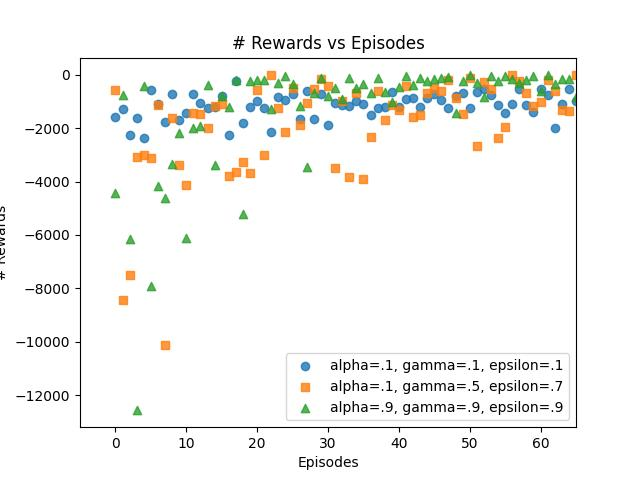
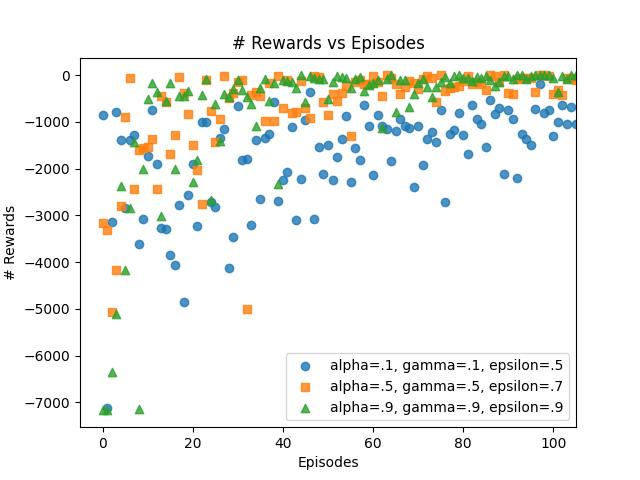
Difference in output

diff --git a/Q_learning/part1/TaxiDriverGym.py b/Q_learning/part1/TaxiDriverGym.py
@@ -9,22 +9,58 @@ import matplotlib.pyplot as plt
 env = gym.make("Taxi-v3", render_mode='ansi').env
 
 def specific_plot(r1, r2, r3):
-    plt.scatter(range(len(r1)),r1,label="alpha=.1, gamma=.1, epsilon=.1", alpha=0.8)
-    plt.scatter(range(len(r2)),r2,label="alpha=.1, gamma=.5, epsilon=.7", marker='s', alpha=0.8)
+    plt.scatter(range(len(r1)),r1,label="alpha=.1, gamma=.1, epsilon=.5", alpha=0.8)
+    plt.scatter(range(len(r2)),r2,label="alpha=.5, gamma=.5, epsilon=.7", marker='s', alpha=0.8)
     plt.scatter(range(len(r3)),r3,label="alpha=.9, gamma=.9, epsilon=.9", marker='^', alpha=0.8)
     plt.xlabel('Episodes')
     plt.ylabel('# Rewards')
     plt.title('# Rewards vs Episodes')
     plt.legend(loc="best")
-    plt.xlim(-5,65)
+    plt.xlim(-5,105)
+    txt='''Figure 1. #Rewards x Episodes.\nRewards are used as 
+    values on the y-axis, as they are values with a tendency to 
+    vary greatly according to the choice of hyperparameters and 
+    with a greater sensitivity range for evaluating the model
+     than the simple amount of actions performed in each episode. 
+     In the figure, three triples of hyperparameter values of 
+     the Q-learning reinforcement learning model are presented, 
+     these being α (learning rate), relative to the weight that 
+     a new learning (future value) has in relation to the current 
+     value, that is , its importance in the current composition; 
+     γ (discount factor) that measures the importance of future 
+     rewards in relation to the current one and ε , which is 
+     the model exploration factor, essential to select the best 
+     action to be taken with a higher success rate. In this sense,
+      three triples of these values were chosen, one with low 
+      values (valuing less the importance of values, rewards and 
+      future actions in relation to the current moment), high 
+      values (valuing more the importance of values, rewards and 
+      future actions in relation to the current moment) and 
+      intermediate values between these. From the figure, it can 
+      be seen that the one with high values (triangular points) 
+      has a tendency to converge to rewards close to zero in a 
+      smaller number of episodes, since as future actions have 
+      high importance in their composition, they end up making 
+      their distribution more uniform. action through greater
+       knowledge of subsequent actions and thus facilitate 
+       better decision-making earlier. On the other hand, the one 
+       with lower values (circular dots), do not show a clear 
+       convergence trend and show less uniformity of behavior
+        than other elements in the figure, due to the fact that 
+        the actions taken have their weighting very little 
+        dependent on actions and states futures which impacts on
+         greater randomness and choice of less complex patterns
+          that may make the model less efficient in terms of fewer
+           episodes.'''
+    #plt.figtext(0.5, 0, txt, wrap=True, horizontalalignment='center', fontsize=12)
     plt.savefig("Final"+".jpg")     
     plt.close()
 
 # only execute the following lines if you want to create a new q-table
-qlearn = QLearning(env, alpha=.1, gamma=.1, epsilon=.1, epsilon_min=0.05, epsilon_dec=0.99, episodes=5000)
+qlearn = QLearning(env, alpha=.1, gamma=.1, epsilon=.5, epsilon_min=0.05, epsilon_dec=0.99, episodes=5000)
 q_table,r1  = qlearn.train('data/q-table-taxi-driver.csv', 'results/actions_taxidriver2')
 
-qlearn = QLearning(env, alpha=.1, gamma=.5, epsilon=.7, epsilon_min=0.05, epsilon_dec=0.99, episodes=5000)
+qlearn = QLearning(env, alpha=.5, gamma=.5, epsilon=.7, epsilon_min=0.05, epsilon_dec=0.99, episodes=5000)
 q_table,r2  = qlearn.train('data/q-table-taxi-driver.csv', 'results/actions_taxidriver2')
 
 qlearn = QLearning(env, alpha=.9, gamma=.9, epsilon=.9, epsilon_min=0.05, epsilon_dec=0.99, episodes=5000)
